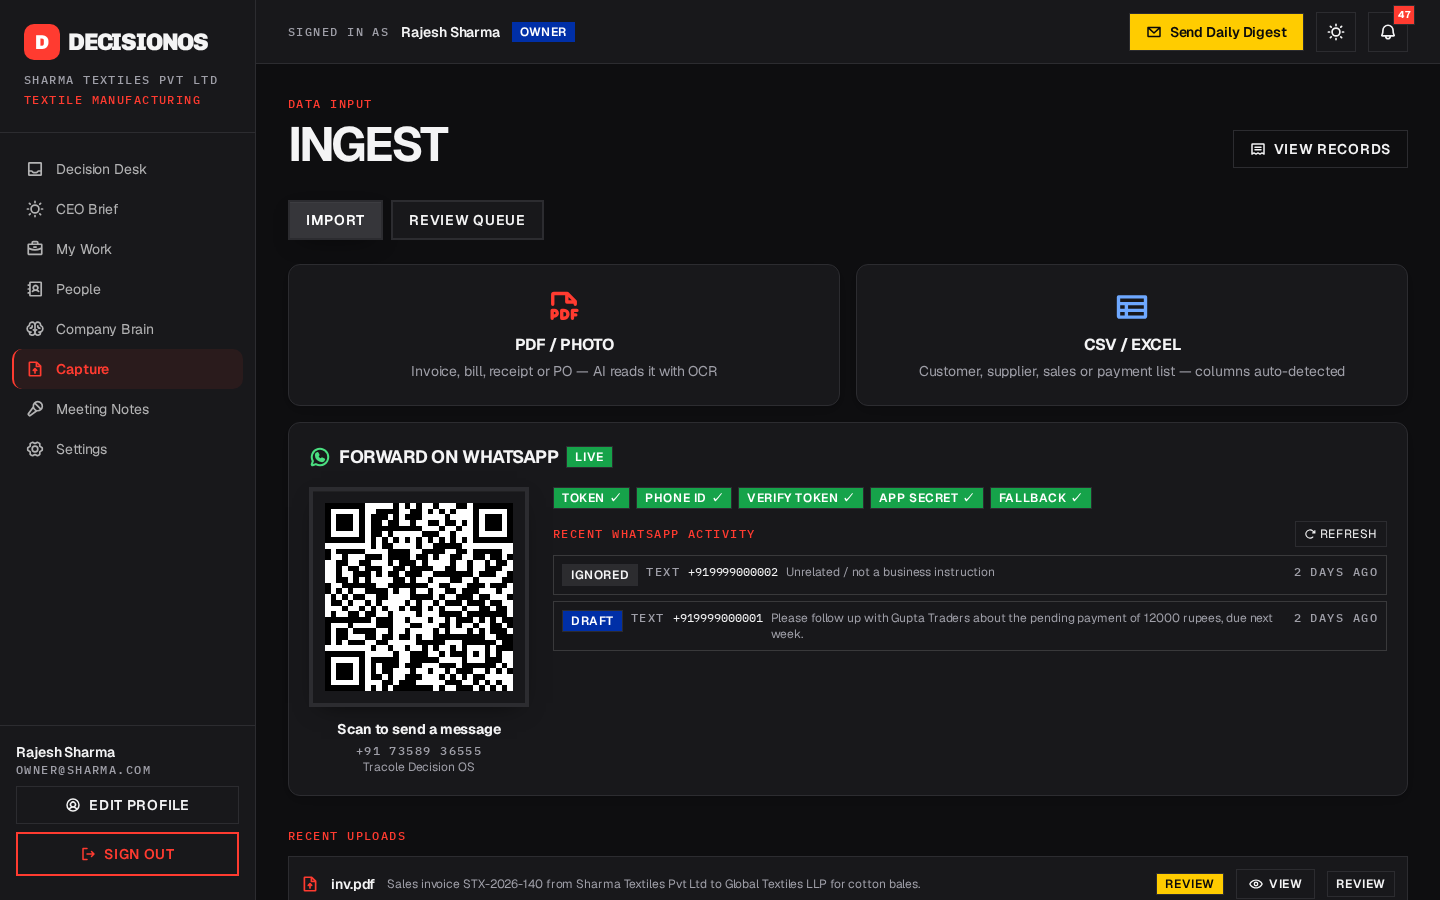
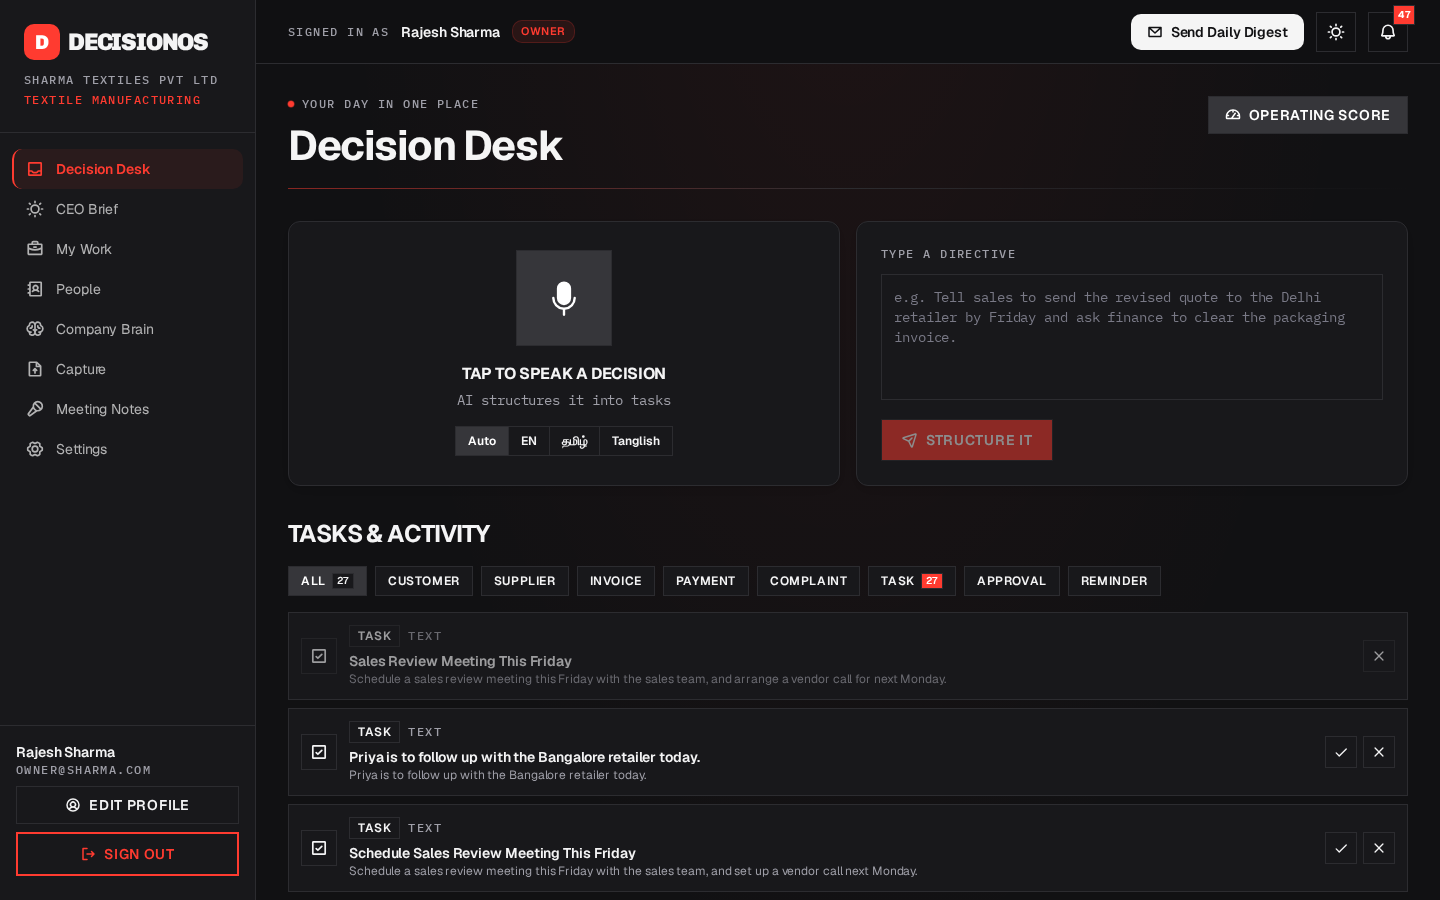
auto-commit for 9b3e38d1-8652-44c1-8370-a01da70a38f8

diff --git a/frontend/src/components/Layout.js b/frontend/src/components/Layout.js
@@ -243,11 +243,11 @@ export default function Layout({ children }) {
       {/* Main */}
       <div className="flex-1 flex flex-col min-w-0">
         {/* Desktop top bar */}
-        <header className="hidden lg:flex h-16 border-b border-black bg-white items-center justify-between px-8 sticky top-0 z-10">
+        <header className="hidden lg:flex h-16 border-b border-border bg-background/70 backdrop-blur-xl items-center justify-between px-8 sticky top-0 z-10">
           <div className="flex items-center gap-3">
             <span className="label-mono text-muted-foreground">Signed in as</span>
             <span className="font-semibold text-sm" data-testid="current-user-name">{user?.name}</span>
-            <span className="px-2 py-0.5 text-xs uppercase tracking-wider bg-brand-blue text-white font-semibold" data-testid="current-user-role">
+            <span className="px-2 py-0.5 text-[11px] rounded-md uppercase tracking-wider bg-brand-red/10 text-brand-red border border-brand-red/20 font-semibold" data-testid="current-user-role">
               {user?.role}
             </span>
           </div>
@@ -256,7 +256,7 @@ export default function Layout({ children }) {
               <button
                 onClick={sendDigest}
                 data-testid="send-digest-button"
-                className="flex items-center gap-2 px-4 py-2 text-sm border border-black bg-brand-yellow font-semibold hover:shadow-brutal-sm transition-all"
+                className="flex items-center gap-2 px-4 py-2 text-sm rounded-lg bg-foreground text-background font-semibold hover:opacity-90 transition-opacity"
               >
                 <EnvelopeSimple size={16} weight="bold" /> Send Daily Digest
               </button>
@@ -273,7 +273,7 @@ export default function Layout({ children }) {
         </header>
 
         {/* Mobile top app bar */}
-        <header className="lg:hidden h-14 border-b border-black bg-white flex items-center justify-between px-4 sticky top-0 z-20">
+        <header className="lg:hidden h-14 border-b border-border bg-background/80 backdrop-blur-xl flex items-center justify-between px-4 sticky top-0 z-20">
           <Logo />
           <div className="flex items-center gap-2">
             <ThemeToggle />
@@ -296,7 +296,7 @@ export default function Layout({ children }) {
                 <p className="mt-2 label-mono text-muted-foreground truncate">{tenant?.name}</p>
                 <div className="mt-3 flex items-center gap-2">
                   <span className="font-semibold text-sm">{user?.name}</span>
-                  <span className="px-2 py-0.5 text-xs uppercase tracking-wider bg-brand-blue text-white font-semibold">
+                  <span className="px-2 py-0.5 text-[11px] rounded-md uppercase tracking-wider bg-brand-red/10 text-brand-red border border-brand-red/20 font-semibold">
                     {user?.role}
                   </span>
                 </div>
@@ -309,7 +309,7 @@ export default function Layout({ children }) {
                   <button
                     onClick={() => { setDrawerOpen(false); sendDigest(); }}
                     data-testid="mobile-send-digest-button"
-                    className="w-full flex items-center justify-center gap-2 px-3 py-2 text-sm border border-black bg-brand-yellow font-semibold"
+                    className="w-full flex items-center justify-center gap-2 px-3 py-2 text-sm rounded-lg bg-foreground text-background font-semibold"
                   >
                     <EnvelopeSimple size={16} weight="bold" /> Send Daily Digest
                   </button>
@@ -334,7 +334,7 @@ export default function Layout({ children }) {
           </div>
         </header>
 
-        <main className="flex-1 p-4 lg:p-8 pb-24 lg:pb-8 overflow-x-hidden">{children}</main>
+        <main className="flex-1 p-4 lg:p-8 pb-24 lg:pb-8 overflow-x-hidden app-canvas">{children}</main>
       </div>
 
       <ProfileDialog open={profileOpen} onClose={() => setProfileOpen(false)} />

diff --git a/frontend/src/components/common.js b/frontend/src/components/common.js
@@ -2,12 +2,25 @@ import { cn } from "../lib/utils";
 
 export function PageHeader({ eyebrow, title, children }) {
   return (
-    <div className="flex items-end justify-between mb-8 flex-wrap gap-4">
-      <div>
-        {eyebrow && <p className="label-mono text-brand-red mb-2">{eyebrow}</p>}
-        <h1 className="font-heading text-4xl lg:text-5xl font-black uppercase tracking-tighter">{title}</h1>
+    <div className="mb-8">
+      <div className="flex items-start justify-between flex-wrap gap-4">
+        <div className="min-w-0">
+          {eyebrow && (
+            <div className="flex items-center gap-2 mb-3">
+              <span className="relative flex h-1.5 w-1.5" aria-hidden>
+                <span className="absolute inline-flex h-full w-full rounded-full bg-brand-red opacity-60 animate-ping"></span>
+                <span className="relative inline-flex h-1.5 w-1.5 rounded-full bg-brand-red"></span>
+              </span>
+              <p className="label-mono text-muted-foreground">{eyebrow}</p>
+            </div>
+          )}
+          <h1 className="font-heading text-3xl sm:text-[2.25rem] lg:text-[2.6rem] font-bold tracking-[-0.035em] leading-[1.05] text-foreground">
+            {title}
+          </h1>
+        </div>
+        <div className="flex items-center gap-2 shrink-0">{children}</div>
       </div>
-      {children}
+      <div className="mt-5 h-px w-full bg-gradient-to-r from-brand-red/50 via-border to-transparent"></div>
     </div>
   );
 }
@@ -62,8 +75,8 @@ export function Chip({ value, className = "", ...rest }) {
 
 export function EmptyState({ title, hint }) {
   return (
-    <div className="border border-dashed border-black/40 p-12 text-center">
-      <p className="font-heading font-bold uppercase tracking-tight text-lg">{title}</p>
+    <div className="border border-dashed border-border rounded-xl p-12 text-center bg-card/40">
+      <p className="font-heading font-semibold tracking-tight text-lg">{title}</p>
       {hint && <p className="text-sm text-muted-foreground mt-2">{hint}</p>}
     </div>
   );

diff --git a/frontend/src/index.css b/frontend/src/index.css
@@ -161,6 +161,16 @@
 }
 .recording-pulse { animation: pulse-ring 1.5s infinite; }
 
+/* Futuristic ambient canvas: soft red glow + faint dot-grid, theme-aware */
+.app-canvas {
+    background-color: hsl(var(--background));
+    background-image:
+        radial-gradient(70% 45% at 50% -6%, rgba(255,59,48,0.06), transparent 62%),
+        radial-gradient(hsl(var(--border)) 0.6px, transparent 0.6px);
+    background-size: 100% 100%, 24px 24px;
+    background-position: 0 0, 0 0;
+}
+
 @media (prefers-reduced-motion: reduce) {
     .recording-pulse { animation: none; }
     .shadow-hover { transition: none; }
